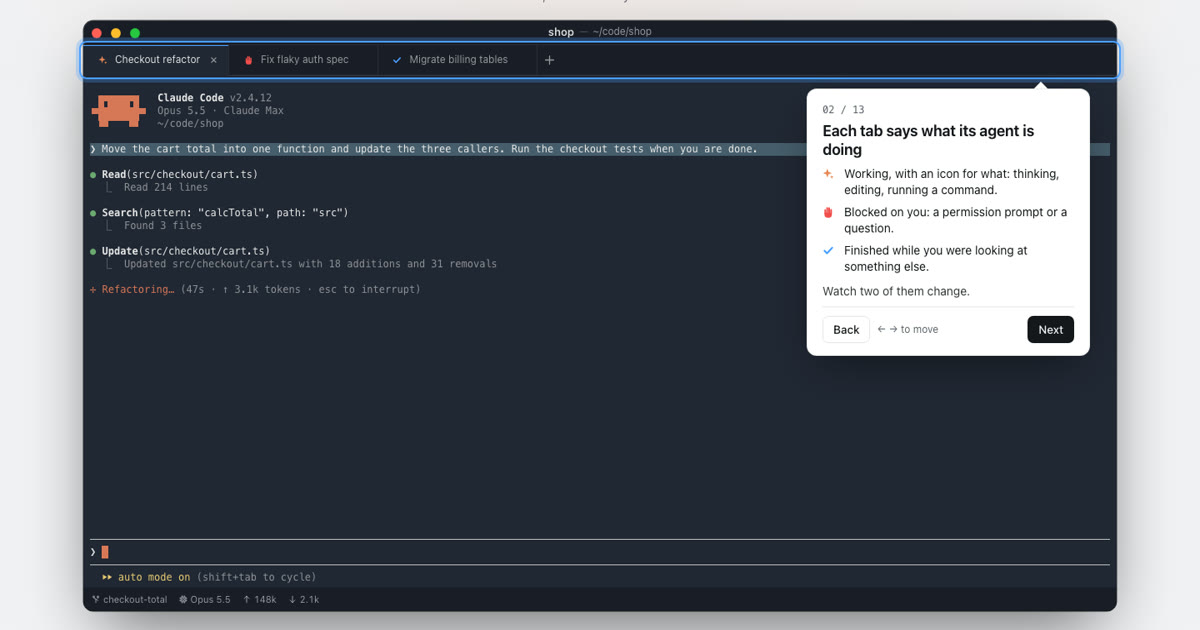
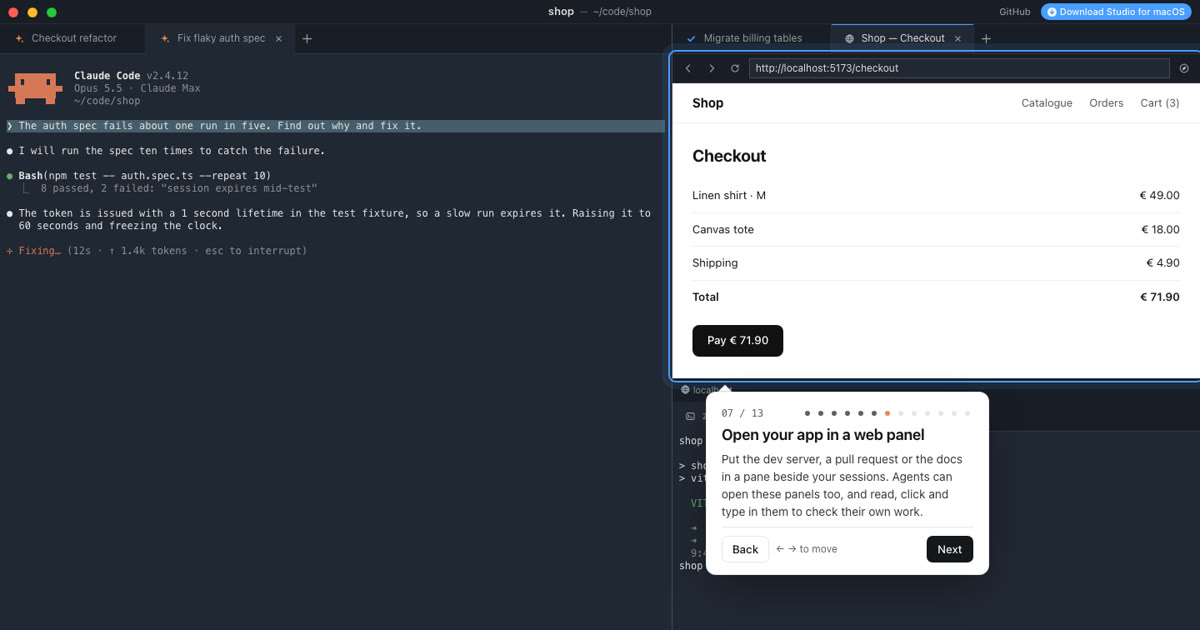
Website is only the Studio window: it fills the browser with nothing around it. The download sits in the title bar where the app shows its update pill, the step dots move into the tour card, and the page behind takes the theme's colour

diff --git a/website/index.html b/website/index.html
@@ -32,31 +32,20 @@ body { background: var(--page); color: var(--ink); font: 15px/1.5 var(--ui); -we
 a { color: inherit; }
 kbd { font: 500 .86em/1 var(--ui); padding: .2em .45em; border-radius: 5px; border: 1px solid var(--line); background: var(--page-2); white-space: nowrap; }
 
-.top { position: fixed; inset: 0 0 auto; z-index: 50; height: 56px; display: flex; align-items: center; gap: 20px; padding: 0 20px;
-       background: color-mix(in srgb, var(--page) 88%, transparent); backdrop-filter: blur(12px); -webkit-backdrop-filter: blur(12px); border-bottom: 1px solid var(--line); }
-.brand { display: flex; align-items: center; gap: 9px; font-weight: 600; font-size: 16px; text-decoration: none; }
-.brand img { width: 26px; height: 26px; }
-.top__steps { display: flex; gap: 5px; margin: 0 auto; }
-.top__steps button { width: 22px; height: 22px; padding: 0; border: 0; background: none; cursor: pointer; display: grid; place-items: center; }
-.top__steps button::before { content: ""; width: 7px; height: 7px; border-radius: 50%; background: var(--line); transition: background .2s, transform .2s; }
-.top__steps button.done::before { background: var(--ink-2); }
-.top__steps button.on::before { background: var(--orange); transform: scale(1.35); }
-.top__gh { display: flex; align-items: center; gap: 7px; text-decoration: none; font-size: 14px; color: var(--ink-2); }
-.top__gh:hover { color: var(--ink); }
-.top__gh svg { width: 18px; height: 18px; }
 .dl { display: inline-flex; align-items: center; gap: 8px; height: 36px; padding: 0 16px; border-radius: 8px; background: var(--orange); color: var(--orange-ink);
       font-weight: 600; font-size: 14px; text-decoration: none; white-space: nowrap; transition: filter .15s, transform .15s; }
 .dl:hover { filter: brightness(1.06); }
 .dl:active { transform: translateY(1px); }
 .dl svg { width: 15px; height: 15px; }
-.dl--big { height: 48px; padding: 0 22px; font-size: 16px; border-radius: 10px; }
-
-.stage { position: relative; min-height: 100svh; padding: 80px 24px 28px; display: flex; flex-direction: column; align-items: center; justify-content: center; gap: 18px; overflow: hidden;
-         background: radial-gradient(1200px 600px at 50% 10%, color-mix(in srgb, var(--orange) 9%, transparent), transparent 70%), var(--page); }
-.stage__lede { text-align: center; max-width: 720px; }
-.stage__lede h1 { margin: 0; font-size: 30px; line-height: 1.15; letter-spacing: -.02em; font-weight: 650; }
-.stage__lede p { margin: 6px 0 0; color: var(--ink-2); }
-.frame { position: relative; flex: none; }
+html, body { height: 100%; overflow: hidden; }
+body { background: #191d27; }
+.frame { position: fixed; inset: 0; }
+.dots { display: flex; gap: 2px; margin-left: auto; }
+.dots button { width: 14px; height: 14px; padding: 0; border: 0; background: none; cursor: pointer; display: grid; place-items: center; }
+.dots button::before { content: ""; width: 6px; height: 6px; border-radius: 50%; background: var(--line); }
+.dots button.done::before { background: var(--ink-2); }
+.dots button.on::before { background: var(--orange); }
+.coach__top { display: flex; align-items: center; }
 
 /* the coach card and the ring around what it points at */
 .ring { position: fixed; z-index: 40; pointer-events: none; border-radius: 7px; box-shadow: 0 0 0 2px var(--ring), 0 0 0 6px color-mix(in srgb, var(--ring) 28%, transparent);
@@ -86,40 +75,27 @@ kbd { font: 500 .86em/1 var(--ui); padding: .2em .45em; border-radius: 5px; bord
 .coach__end { display: flex; flex-wrap: wrap; gap: 10px; margin: 6px 0 12px; }
 .coach__end .dl { height: 40px; }
 
-/* below the tour */
-.more { max-width: 1040px; margin: 0 auto; padding: 72px 24px 40px; display: grid; grid-template-columns: repeat(3, minmax(0, 1fr)); gap: 32px; border-top: 1px solid var(--line); }
-.more > div { min-width: 0; }
-.more h3 { margin: 0 0 8px; font-size: 16px; }
-.more p { margin: 0 0 10px; color: var(--ink-2); font-size: 14.5px; }
-.more pre { margin: 0; padding: 12px 14px; border-radius: 8px; background: var(--page-2); border: 1px solid var(--line); font: 12.5px/1.6 var(--mono); overflow-x: auto; }
-.foot { max-width: 1040px; margin: 0 auto; padding: 24px 24px 48px; display: flex; flex-wrap: wrap; gap: 8px 24px; justify-content: space-between; color: var(--ink-2); font-size: 13px; }
-
-@media (max-width: 899px) {
-  .top { gap: 12px; padding: 0 14px; }
-  .top__steps { display: none; }
-  .top__gh span { display: none; }
-  .brand { margin-right: auto; }
-  .stage { justify-content: flex-start; padding: 72px 14px 24px; min-height: 0; }
-  .stage__lede h1 { font-size: 24px; }
-  .coach { position: relative; inset: auto !important; width: 100%; max-width: 560px; }
+@media (max-width: 639px) {
+  .coach { left: 10px !important; right: 10px; top: auto !important; bottom: 10px; width: auto; max-height: 52svh; overflow: auto; }
   .coach__arrow { display: none; }
-  .more { grid-template-columns: 1fr; padding-top: 48px; }
 }
-.dl .short { display: none; }
-@media (max-width: 420px) { .dl .full { display: none; } .dl .short { display: inline; } .dl:not(.dl--big) { padding: 0 12px; } }
 
 /* ------------------------------------------------------------------ the Studio window, at its real point sizes */
 .win { --sec: rgb(255 255 255 / .55); --ter: rgb(255 255 255 / .26); --pri: rgb(255 255 255 / .86); --hover: rgb(255 255 255 / .04);
        position: absolute; left: 0; top: 0; transform-origin: 0 0; display: flex; flex-direction: column; overflow: hidden;
-       border-radius: 12px; background: var(--chrome); color: var(--pri); font: 13px/1.2 var(--ui); cursor: default; user-select: none; -webkit-user-select: none;
-       box-shadow: 0 0 0 .5px rgb(0 0 0 / .7), inset 0 0 0 1px rgb(255 255 255 / .09), 0 32px 80px -20px rgb(0 0 0 / .6); }
-.win.light { --sec: rgb(0 0 0 / .5); --ter: rgb(0 0 0 / .25); --pri: rgb(0 0 0 / .85); --hover: rgb(0 0 0 / .04);
-             box-shadow: 0 0 0 .5px rgb(0 0 0 / .3), 0 32px 80px -20px rgb(0 0 0 / .35); }
+       background: var(--chrome); color: var(--pri); font: 13px/1.2 var(--ui); cursor: default; user-select: none; -webkit-user-select: none; }
+.win.light { --sec: rgb(0 0 0 / .5); --ter: rgb(0 0 0 / .25); --pri: rgb(0 0 0 / .85); --hover: rgb(0 0 0 / .04); }
 .win svg { display: block; flex: none; }
 .titlebar { position: relative; height: 28px; flex: none; display: flex; align-items: center; justify-content: center; gap: 6px; padding: 0 90px; }
 .titlebar b { font-size: 13px; font-weight: 600; }
 .titlebar .dash { color: var(--ter); }
-.titlebar span { font-size: 12px; color: var(--sec); }
+.titlebar > span { font-size: 12px; color: var(--sec); }
+/* the right of the title bar, where the app puts its update pill: the download, in that pill's style */
+.tb-right { position: absolute; right: 10px; top: 0; height: 28px; display: flex; align-items: center; gap: 12px; }
+.tb-gh { display: flex; align-items: center; gap: 4px; font-size: 11px; font-weight: 500; color: var(--sec); text-decoration: none; }
+.tb-gh:hover { color: var(--pri); }
+.nudge { display: flex; align-items: center; gap: 4px; padding: 3px 8px; border-radius: 99px; background: var(--accent); color: #fff; font-size: 11px; font-weight: 500; text-decoration: none; }
+.nudge:hover { filter: brightness(1.1); }
 .lights { position: absolute; left: 10px; top: 9px; display: flex; gap: 11px; }
 .lights i { width: 12px; height: 12px; border-radius: 50%; background: #ff5f57; box-shadow: inset 0 0 0 .5px rgb(0 0 0 / .18); }
 .lights i:nth-child(2) { background: #febc2e; } .lights i:nth-child(3) { background: #28c840; }
@@ -237,45 +213,10 @@ kbd { font: 500 .86em/1 var(--ui); padding: .2em .45em; border-radius: 5px; bord
 </head>
 <body>
 
-<header class="top">
-  <a class="brand" href="#top"><img src="assets/icon.svg" alt="" width="26" height="26">Studio</a>
-  <nav class="top__steps" id="dots" aria-label="Tour steps"></nav>
-  <a class="top__gh" href="https://github.com/fiberevm/studio"><svg viewBox="0 0 24 24" fill="currentColor" aria-hidden="true"><path d="M12 .5a11.5 11.5 0 0 0-3.64 22.41c.58.1.79-.25.79-.56v-2c-3.2.7-3.87-1.360-3.87-1.36-.53-1.33-1.28-1.69-1.28-1.69-1.05-.71.08-.7.08-.7 1.16.08 1.77 1.19 1.77 1.19 1.03 1.77 2.7 1.26 3.36.96.1-.75.4-1.260.73-1.55-2.55-.29-5.24-1.28-5.24-5.68 0-1.26.45-2.28 1.19-3.09-.12-.29-.52-1.46.11-3.05 0 0 .97-.31 3.17 1.18a11 11 0 0 1 5.77 0c2.2-1.49 3.17-1.18 3.17-1.18.63 1.59.23 2.76.11 3.05.74.81 1.19 1.83 1.19 3.09 0 4.41-2.69 5.38-5.25 5.67.41.36.78 1.06.78 2.14v3.17c0 .31.21.67.8.56A11.5 11.5 0 0 0 12 .5Z"/></svg><span>GitHub</span></a>
-  <a class="dl" href="https://github.com/fiberevm/studio/releases/latest/download/Studio.dmg"><svg viewBox="0 0 24 24" fill="currentColor" aria-hidden="true"><path d="M16.37 12.6c-.02-2.3 1.88-3.4 1.97-3.46-1.07-1.57-2.74-1.78-3.33-1.8-1.42-.15-2.77.83-3.49.83-.72 0-1.830-.81-3.01-.79-1.55.02-2.98.9-3.78 2.29-1.61 2.8-.41 6.94 1.16 9.21.77 1.11 1.68 2.36 2.88 2.31 1.16-.05 1.6-.75 3-.75s1.79.75 3.01.72c1.25-.02 2.04-1.13 2.8-2.25.88-1.29 1.24-2.54 1.26-2.6-.03-.01-2.42-.93-2.47-3.71ZM14.1 5.86c.64-.78 1.07-1.85.95-2.92-.92.04-2.03.61-2.69 1.38-.59.68-1.11 1.77-.97 2.82 1.03.08 2.07-.52 2.71-1.28Z"/></svg><span class="full">Download for macOS</span><span class="short">Download</span></a>
-</header>
-
-<main id="top">
-  <section class="stage" id="stage" aria-label="A guided tour of Studio">
-    <div class="stage__lede">
-      <h1>Take the tour of Studio</h1>
-      <p>The Mac workspace for Claude Code, Codex and Antigravity. This is the real layout, drawn in HTML: click around, or use the keys it asks for.</p>
-    </div>
-    <div class="frame" id="frame"><div class="win" id="win" role="img" aria-label="A Studio window"></div></div>
-    <div class="coach" id="coach" role="dialog" aria-live="polite" aria-label="Tour step"></div>
-    <div class="ring" id="ring" aria-hidden="true"></div>
-  </section>
-
-  <section class="more" id="install">
-    <div>
-      <h3>Download</h3>
-      <p>Free and MIT licensed. Signed and notarized by Apple. Needs macOS 14 or later and Claude Code installed and signed in; Codex and Antigravity are optional.</p>
-      <a class="dl dl--big" href="https://github.com/fiberevm/studio/releases/latest/download/Studio.dmg">Download Studio.dmg</a>
-    </div>
-    <div>
-      <h3>Build from source</h3>
-      <p>Needs Xcode 16 or the Swift 6 toolchain.</p>
-      <pre>git clone https://github.com/fiberevm/studio.git
-cd studio && ./build-app.sh --open</pre>
-    </div>
-    <div>
-      <h3>Is it the real CLI?</h3>
-      <p>Yes. Each tab runs the agent's own CLI in a real terminal, signed in with your account, so slash commands, hooks, MCP servers and settings work as before. Sessions run in hidden tmux sessions and survive a restart.</p>
-    </div>
-  </section>
-  <footer class="foot">
-    <span>Studio is an independent open-source project, not affiliated with or endorsed by Anthropic.</span>
-    <span><a href="https://github.com/fiberevm/studio">GitHub</a> · <a href="https://github.com/fiberevm/studio/blob/main/LICENSE">MIT License</a></span>
-  </footer>
+<main id="top" aria-label="A guided tour of Studio">
+  <div class="frame" id="frame"><div class="win" id="win"></div></div>
+  <div class="coach" id="coach" role="dialog" aria-live="polite" aria-label="Tour step"></div>
+  <div class="ring" id="ring" aria-hidden="true"></div>
 </main>
 
 <script>
@@ -412,6 +353,7 @@ function applyTheme(id) {
   st.setProperty('--band', t.light ? `color-mix(in srgb, ${t.fg} 10%, ${t.bg})` : a[8]);
   a.forEach((c, i) => st.setProperty('--a' + i, c));
   win.classList.toggle('light', !!t.light);
+  document.body.style.background = t.chrome;
 }
 
 function tabHTML(id, g) {
@@ -501,7 +443,7 @@ function peekHTML() {
 let starI = 0;
 function render() {
   applyTheme(s.theme);
-  win.innerHTML = `<div class="titlebar"><div class="lights"><i></i><i></i><i></i></div><b>shop</b><span class="dash">—</span><span>~/code/shop</span></div><div class="hair"></div>
+  win.innerHTML = `<div class="titlebar"><div class="lights"><i></i><i></i><i></i></div><b>shop</b><span class="dash">—</span><span>~/code/shop</span><span class="tb-right"><a class="tb-gh" href="https://github.com/fiberevm/studio">GitHub</a><a class="nudge" href="https://github.com/fiberevm/studio/releases/latest/download/Studio.dmg"><svg width="11" height="11" viewBox="0 0 12 12"><circle cx="6" cy="6" r="6" fill="currentColor" opacity=".9"/><path d="M6 3v5M3.8 6l2.2 2.2L8.2 6" fill="none" stroke="var(--accent)" stroke-width="1.4" stroke-linecap="round" stroke-linejoin="round"/></svg>Download Studio for macOS</a></span></div><div class="hair"></div>
     <div class="wbody">${s.sidebar ? sidebarHTML() : ''}<div class="layout">${nodeHTML(s.layout)}</div></div>
     ${overlayHTML()}${peekHTML()}${s.drop ? `<div class="drop" style="${s.drop}"></div>` : ''}${s.ghost ? `<div class="ghost" style="${s.ghost.style}">${mark('done')}${esc(s.ghost.title)}</div>` : ''}${s.toast ? `<div class="toast">${esc(s.toast)}</div>` : ''}`;
   if (s.peek) placePeek();
@@ -525,13 +467,10 @@ function placePeek() {
 /* ================================================================ fitting the window to the screen */
 let scale = 1;
 function fit() {
-  const narrow = innerWidth < 900;
-  const availW = Math.min(innerWidth - (narrow ? 28 : 64), 1400);
-  const availH = narrow ? 99999 : innerHeight - 56 - 150;
-  const Wd = Math.max(780, Math.min(availW, 1240)), Hd = narrow ? 560 : Math.max(540, Math.min(availH, 780));
-  scale = Math.min(1, availW / Wd, availH / Hd);
+  // the window is the page; below 820 points wide it is drawn smaller, so its layout never squeezes
+  scale = Math.min(1, innerWidth / 820);
+  const Wd = innerWidth / scale, Hd = innerHeight / scale;
   win.style.width = Wd + 'px'; win.style.height = Hd + 'px'; win.style.transform = `scale(${scale})`;
-  frame.style.width = Wd * scale + 'px'; frame.style.height = Hd * scale + 'px';
   if (s.peek) placePeek();
   position();
 }
@@ -619,7 +558,7 @@ const steps = [
     apply: st => { st.chips = true; st.groups.g1.sel = 'co'; st.active = 'g1'; },
     play: () => { steps[11].apply(s); render(); refresh(); } },
   { title: 'That is Studio',
-    body: `<p>Free, open source and native on macOS 14 or later. It runs the agent CLIs you already use, with your own accounts.</p><div class="coach__end"><a class="dl" href="https://github.com/fiberevm/studio/releases/latest/download/Studio.dmg">Download for macOS</a><a class="dl" style="background:none;color:var(--ink);box-shadow:inset 0 0 0 1px var(--line)" href="https://github.com/fiberevm/studio">See it on GitHub</a></div>`,
+    body: `<p>Free, open source and native on macOS 14 or later. It runs the agent CLIs you already use, with your own accounts.</p><div class="coach__end"><a class="dl" href="https://github.com/fiberevm/studio/releases/latest/download/Studio.dmg">Download for macOS</a><a class="dl" style="background:none;color:var(--ink);box-shadow:inset 0 0 0 1px var(--line)" href="https://github.com/fiberevm/studio">See it on GitHub</a></div><p>Needs Claude Code installed and signed in; Codex and Antigravity are optional. To build it yourself: clone the repository and run <code>./build-app.sh --open</code>.</p>`,
     target: () => null },
 ];
 
@@ -654,9 +593,8 @@ function cycleThemes() {
 }
 
 let cur = 0;
-const coach = document.getElementById('coach'), ring = document.getElementById('ring'), dots = document.getElementById('dots');
-dots.innerHTML = steps.map((st, i) => `<button type="button" aria-label="Step ${i + 1}: ${st.title}"></button>`).join('');
-dots.addEventListener('click', e => { const b = e.target.closest('button'); if (b) go([...dots.children].indexOf(b)); });
+const coach = document.getElementById('coach'), ring = document.getElementById('ring');
+const dotsHTML = () => `<nav class="dots" aria-label="Tour steps">${steps.map((st, i) => `<button type="button" data-dot="${i}" class="${i === cur ? 'on' : i < cur ? 'done' : ''}" aria-label="Step ${i + 1}: ${st.title}"></button>`).join('')}</nav>`;
 
 function go(i) {
   timers.forEach(clearTimeout); timers = []; cycling = false;
@@ -665,7 +603,6 @@ function go(i) {
   for (let j = 0; j < cur; j++) if (steps[j].apply) steps[j].apply(s);
   render(); refresh();
   if (steps[cur].play) steps[cur].play();
-  [...dots.children].forEach((b, j) => { b.className = j === cur ? 'on' : j < cur ? 'done' : ''; });
   history.replaceState(null, '', cur ? '#step-' + (cur + 1) : location.pathname);
 }
 function refresh() {
@@ -674,11 +611,12 @@ function refresh() {
   const act = st.action && st.action();
   const doBtn = act ? `<button class="coach__do" type="button" data-act>${act.label} ${kbd('↵')}</button>`
     : st.key ? `<button class="coach__do" type="button" data-key>Press ${kbd(st.key.label)} or click here</button>` : '';
-  coach.innerHTML = `<span class="coach__arrow"></span><div class="coach__n">${String(cur + 1).padStart(2, '0')} / ${steps.length}</div><h2>${st.title}</h2>${body}${doBtn}
+  coach.innerHTML = `<span class="coach__arrow"></span><div class="coach__top"><span class="coach__n">${String(cur + 1).padStart(2, '0')} / ${steps.length}</span>${dotsHTML()}</div><h2>${st.title}</h2>${body}${doBtn}
     <div class="coach__nav">${cur ? '<button type="button" data-back>Back</button>' : ''}<span class="coach__hint">${cur < steps.length - 1 ? '← → to move' : ''}</span>${cur < steps.length - 1 ? '<button type="button" class="next" data-next>Next</button>' : '<button type="button" class="next" data-restart>Start over</button>'}</div>`;
   position(); requestAnimationFrame(position);
 }
 coach.addEventListener('click', e => {
+  const dot = e.target.closest('[data-dot]'); if (dot) { go(+dot.dataset.dot); return; }
   if (e.target.closest('[data-next]')) go(cur + 1);
   else if (e.target.closest('[data-back]')) go(cur - 1);
   else if (e.target.closest('[data-restart]')) go(0);
@@ -689,11 +627,11 @@ coach.addEventListener('click', e => {
 function position() {
   const st = steps[cur], sel = st.target && st.target();
   const el = sel && win.querySelector(sel);
-  const narrow = innerWidth < 900;
+  const narrow = innerWidth < 640;
   const arrow = coach.querySelector('.coach__arrow');
   if (!el) {
     ring.style.opacity = 0;
-    if (!narrow) { const f = frame.getBoundingClientRect(); coach.style.left = (f.left + f.width / 2 - coach.offsetWidth / 2) + 'px'; coach.style.top = Math.max(68, f.top + f.height / 2 - coach.offsetHeight / 2) + 'px'; }
+    if (!narrow) { coach.style.left = (innerWidth / 2 - coach.offsetWidth / 2) + 'px'; coach.style.top = (innerHeight / 2 - coach.offsetHeight / 2) + 'px'; }
     if (arrow) arrow.style.display = 'none';
     return;
   }
@@ -701,7 +639,7 @@ function position() {
   ring.style.opacity = 1;
   Object.assign(ring.style, { left: r.left - 3 + 'px', top: r.top - 3 + 'px', width: r.width + 6 + 'px', height: r.height + 6 + 'px' });
   if (narrow || !arrow) return;
-  const cw = coach.offsetWidth, ch = coach.offsetHeight, gap = 16, m = 12, top = 68;
+  const cw = coach.offsetWidth, ch = coach.offsetHeight, gap = 16, m = 12, top = 12;
   const fits = (x, y) => x >= m && y >= top && x + cw <= innerWidth - m && y + ch <= innerHeight - m;
   // a wide target (a tab strip, a pane) gets the card at its right end, where the terminal has no text
   const ax0 = r.width > cw * 2 ? r.right - cw - 32 : r.left + Math.min(40, Math.max(0, r.width / 2 - 20));
@@ -719,7 +657,6 @@ function position() {
   if (side === 'right') { arrow.style.left = '-7px'; arrow.style.top = ay + 'px'; arrow.style.clipPath = 'polygon(0 0, 0 100%, 100% 100%)'; }
   if (side === 'left') { arrow.style.right = '-7px'; arrow.style.top = ay + 'px'; arrow.style.clipPath = 'polygon(0 0, 100% 0, 100% 100%)'; }
 }
-addEventListener('scroll', position, { passive: true });
 
 /* ================================================================ clicking around in the window */
 function selectTab(id, g) {

diff --git a/README.md b/README.md
@@ -300,7 +300,7 @@ install-worker.sh        installs studio-worker from the latest release
 Resources/               app icon (SVG source + generated .icns), the Markdown preview's renderer (Preview/marked.min.js, MIT)
 scripts/make-icon.sh     regenerates AppIcon.icns from AppIcon.svg
 scripts/make-appcast.sh  writes a release's update feed (appcast.xml), signed with the update key
-website/                 the download site: a guided tour of Studio drawn in HTML (one self-contained index.html, the app's real theme colours and sizes; #step-N links to a step)
+website/                 the download site: nothing but a Studio window drawn in HTML that fills the browser, with a guided tour over it and the download in its title bar (one self-contained index.html, the app's real theme colours and sizes; #step-N links to a step)
 wrangler.jsonc           serves website/ at getstudio.dev (a Cloudflare static-assets Worker): npx wrangler deploy
 ```
 
